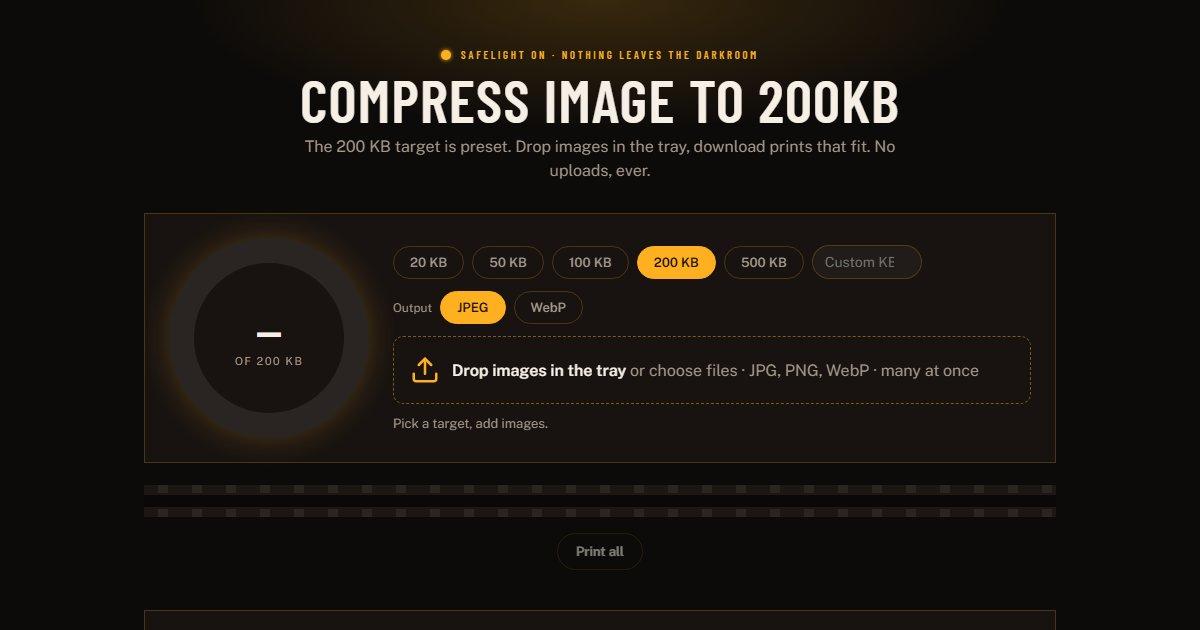
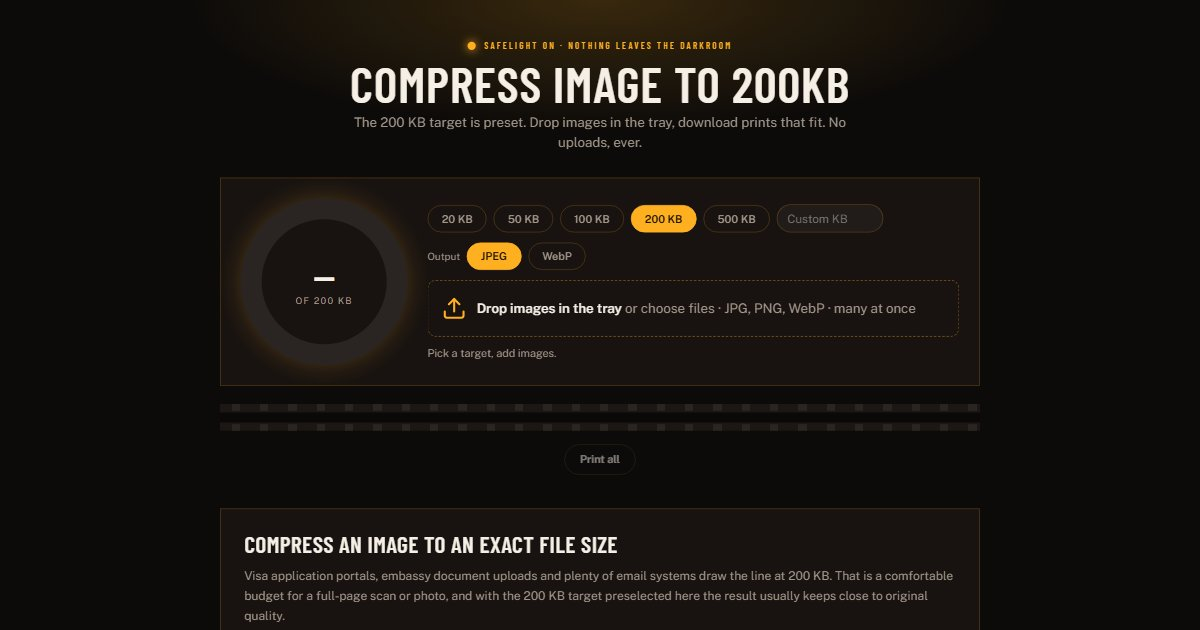
fix(compress-image-to-kb): show the whole Custom KB placeholder; no per-tool sitemap
The number input's spinner left too little room in 110px, so the placeholder
read "Custom KE" on the main page and all four size pages; 128px fits it.
gen-variants.mjs still wrote a sitemap.xml with build-date lastmods into the
tool folder, left over from when the tool was its own repo; the site's one
sitemap already lists the size pages, so that step is gone.

diff --git a/compress-image-to-kb/100kb/index.html b/compress-image-to-kb/100kb/index.html
@@ -44,7 +44,7 @@
     .row { display:flex; gap:8px; flex-wrap:wrap; align-items:center; }
     .chip { padding:8px 16px; border-radius:9999px; border:1px solid var(--edge); background:transparent; color:var(--muted); font:600 13px 'Public Sans', sans-serif; cursor:pointer; }
     .chip[aria-pressed="true"] { background:var(--amber); border-color:var(--amber); color:var(--amber-ink); }
-    .custom { width:110px; padding:8px 12px; background:rgba(255,255,255,0.04); border:1px solid var(--edge); color:var(--text); font:14px 'Public Sans', sans-serif; border-radius:9999px; outline:none; }
+    .custom { width:128px; padding:8px 12px; background:rgba(255,255,255,0.04); border:1px solid var(--edge); color:var(--text); font:14px 'Public Sans', sans-serif; border-radius:9999px; outline:none; }
     .fmt { display:flex; gap:8px; align-items:center; font-size:12px; color:var(--muted); }
     .drop { border:1.5px dashed rgba(255,176,32,0.45); border-radius:10px; padding:18px 16px; display:flex; align-items:center; gap:12px; color:var(--muted); cursor:pointer; }
     .drop strong { color:var(--text); } .drop.over { border-color:var(--amber); background:rgba(255,176,32,0.06); }

diff --git a/compress-image-to-kb/200kb/index.html b/compress-image-to-kb/200kb/index.html
@@ -44,7 +44,7 @@
     .row { display:flex; gap:8px; flex-wrap:wrap; align-items:center; }
     .chip { padding:8px 16px; border-radius:9999px; border:1px solid var(--edge); background:transparent; color:var(--muted); font:600 13px 'Public Sans', sans-serif; cursor:pointer; }
     .chip[aria-pressed="true"] { background:var(--amber); border-color:var(--amber); color:var(--amber-ink); }
-    .custom { width:110px; padding:8px 12px; background:rgba(255,255,255,0.04); border:1px solid var(--edge); color:var(--text); font:14px 'Public Sans', sans-serif; border-radius:9999px; outline:none; }
+    .custom { width:128px; padding:8px 12px; background:rgba(255,255,255,0.04); border:1px solid var(--edge); color:var(--text); font:14px 'Public Sans', sans-serif; border-radius:9999px; outline:none; }
     .fmt { display:flex; gap:8px; align-items:center; font-size:12px; color:var(--muted); }
     .drop { border:1.5px dashed rgba(255,176,32,0.45); border-radius:10px; padding:18px 16px; display:flex; align-items:center; gap:12px; color:var(--muted); cursor:pointer; }
     .drop strong { color:var(--text); } .drop.over { border-color:var(--amber); background:rgba(255,176,32,0.06); }

diff --git a/compress-image-to-kb/20kb/index.html b/compress-image-to-kb/20kb/index.html
@@ -44,7 +44,7 @@
     .row { display:flex; gap:8px; flex-wrap:wrap; align-items:center; }
     .chip { padding:8px 16px; border-radius:9999px; border:1px solid var(--edge); background:transparent; color:var(--muted); font:600 13px 'Public Sans', sans-serif; cursor:pointer; }
     .chip[aria-pressed="true"] { background:var(--amber); border-color:var(--amber); color:var(--amber-ink); }
-    .custom { width:110px; padding:8px 12px; background:rgba(255,255,255,0.04); border:1px solid var(--edge); color:var(--text); font:14px 'Public Sans', sans-serif; border-radius:9999px; outline:none; }
+    .custom { width:128px; padding:8px 12px; background:rgba(255,255,255,0.04); border:1px solid var(--edge); color:var(--text); font:14px 'Public Sans', sans-serif; border-radius:9999px; outline:none; }
     .fmt { display:flex; gap:8px; align-items:center; font-size:12px; color:var(--muted); }
     .drop { border:1.5px dashed rgba(255,176,32,0.45); border-radius:10px; padding:18px 16px; display:flex; align-items:center; gap:12px; color:var(--muted); cursor:pointer; }
     .drop strong { color:var(--text); } .drop.over { border-color:var(--amber); background:rgba(255,176,32,0.06); }

diff --git a/compress-image-to-kb/50kb/index.html b/compress-image-to-kb/50kb/index.html
@@ -44,7 +44,7 @@
     .row { display:flex; gap:8px; flex-wrap:wrap; align-items:center; }
     .chip { padding:8px 16px; border-radius:9999px; border:1px solid var(--edge); background:transparent; color:var(--muted); font:600 13px 'Public Sans', sans-serif; cursor:pointer; }
     .chip[aria-pressed="true"] { background:var(--amber); border-color:var(--amber); color:var(--amber-ink); }
-    .custom { width:110px; padding:8px 12px; background:rgba(255,255,255,0.04); border:1px solid var(--edge); color:var(--text); font:14px 'Public Sans', sans-serif; border-radius:9999px; outline:none; }
+    .custom { width:128px; padding:8px 12px; background:rgba(255,255,255,0.04); border:1px solid var(--edge); color:var(--text); font:14px 'Public Sans', sans-serif; border-radius:9999px; outline:none; }
     .fmt { display:flex; gap:8px; align-items:center; font-size:12px; color:var(--muted); }
     .drop { border:1.5px dashed rgba(255,176,32,0.45); border-radius:10px; padding:18px 16px; display:flex; align-items:center; gap:12px; color:var(--muted); cursor:pointer; }
     .drop strong { color:var(--text); } .drop.over { border-color:var(--amber); background:rgba(255,176,32,0.06); }

diff --git a/compress-image-to-kb/index.html b/compress-image-to-kb/index.html
@@ -44,7 +44,7 @@
     .row { display:flex; gap:8px; flex-wrap:wrap; align-items:center; }
     .chip { padding:8px 16px; border-radius:9999px; border:1px solid var(--edge); background:transparent; color:var(--muted); font:600 13px 'Public Sans', sans-serif; cursor:pointer; }
     .chip[aria-pressed="true"] { background:var(--amber); border-color:var(--amber); color:var(--amber-ink); }
-    .custom { width:110px; padding:8px 12px; background:rgba(255,255,255,0.04); border:1px solid var(--edge); color:var(--text); font:14px 'Public Sans', sans-serif; border-radius:9999px; outline:none; }
+    .custom { width:128px; padding:8px 12px; background:rgba(255,255,255,0.04); border:1px solid var(--edge); color:var(--text); font:14px 'Public Sans', sans-serif; border-radius:9999px; outline:none; }
     .fmt { display:flex; gap:8px; align-items:center; font-size:12px; color:var(--muted); }
     .drop { border:1.5px dashed rgba(255,176,32,0.45); border-radius:10px; padding:18px 16px; display:flex; align-items:center; gap:12px; color:var(--muted); cursor:pointer; }
     .drop strong { color:var(--text); } .drop.over { border-color:var(--amber); background:rgba(255,176,32,0.06); }
